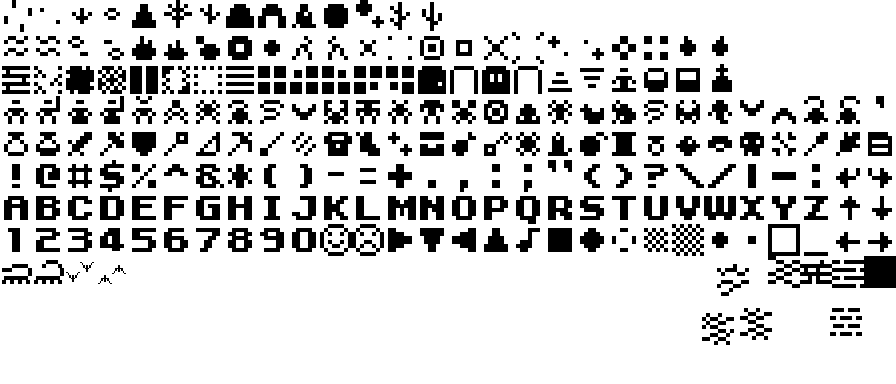
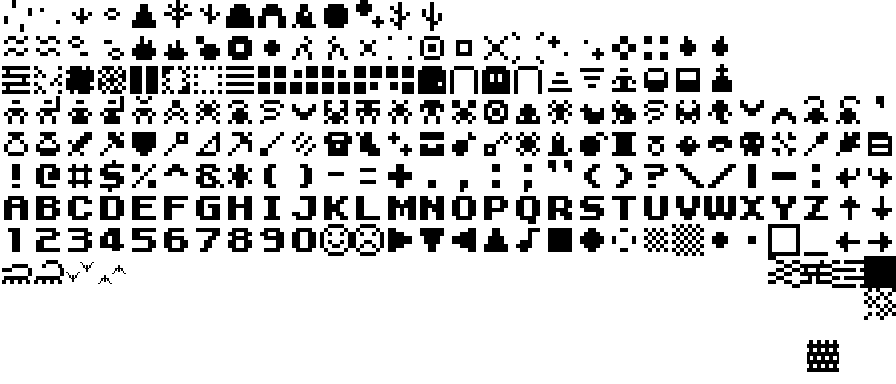
Add water animation, cave gen tweaks

Changed region(s): [[0.875, 0.75, 1.0, 0.9688], [0.7812, 0.8125, 0.875, 0.9062], [0.7812, 0.6875, 0.8438, 0.75]]

diff --git a/src/Generate/cave.ts b/src/Generate/cave.ts
@@ -11,8 +11,10 @@ import { hop } from './modules/walk'
 import { Overseer2 } from './Overseer2'
 
 export function cave(
-  width = floor(CONFIG.mainDisplayWidth * 1.5),
-  height = floor(CONFIG.mainDisplayHeight * 1.5)
+  // width = floor(CONFIG.mainDisplayWidth * 1.5),
+  // height = floor(CONFIG.mainDisplayHeight * 1.5)
+  width = CONFIG.mainDisplayWidth,
+  height = CONFIG.mainDisplayHeight
 ) {
   const region = new Region(width, height, window.game.pool)
   const O2 = new Overseer2(region)
@@ -27,22 +29,25 @@ export function cave(
   // cellular automata cave generation
   const grid = cellularGrid(width, height, 5, O2.module())
 
-  const { being, feature, terrain, snap } = O2.module()
-
-  const seed1 = flood(region.rndWalkable(), 11, O2.module(), 'water')
-  const seed2 = flood(region.rndWalkable(), 9, O2.module(), 'water')
-  const seed3 = flood(region.rndWalkable(), 9, O2.module(), 'water')
-  const seed4 = flood(region.rndWalkable(), 11, O2.module(), 'water')
-
-  lake(new Set([...seed1, ...seed2, ...seed3, ...seed4]), O2.module(), 'water')
-
   rect.traverse(pt => {
     if (region.terrainAt(pt).blocksMovement) {
       if (region.terrainAt(pt.add(0, 1)).blocksMovement) O2.terrain(pt, 'solid')
       else O2.terrain(pt, 'brick')
     }
   })
-  O2.snapshot('Style!')
+  O2.snapshot('Decorate')
+
+  const { being, feature, terrain, snap } = O2.module()
+
+  // const seed1 = flood(region.rndWalkable(), 11, O2.module(), 'water')
+  // const seed2 = flood(region.rndWalkable(), 9, O2.module(), 'water')
+  // const seed3 = flood(region.rndWalkable(), 9, O2.module(), 'water')
+  // const seed4 = flood(region.rndWalkable(), 11, O2.module(), 'water')
+  // lake(new Set([...seed1, ...seed2, ...seed3, ...seed4]), O2.module(), 'water')
+
+  const seed1 = flood(region.rndWalkable(), 12, O2.module(), 'water')
+  const seed2 = flood(region.rndWalkable(), 12, O2.module(), 'water')
+  lake(new Set([...seed1, ...seed2]), O2.module(), 'water')
 
   // O2.terrain(rect.center(), 'cactus')
   const snapC = snap('Friendly critters')
@@ -68,8 +73,8 @@ export function cave(
   //   })
   // })
 
-  const webArea = flood(region.rndWalkable(), 12, O2.module(), 'web', 'water')
-  const webArea2 = flood(region.rndWalkable(), 12, O2.module(), 'web', 'water')
+  const webArea = flood(region.rndWalkable(), 12, O2.module(), 'web', ['water'])
+  const webArea2 = flood(region.rndWalkable(), 12, O2.module(), 'web', ['water'])
   lake(new Set([...webArea, ...webArea2]), O2.module(), 'web')
 
   const pWebArea = shuffle([...webArea])
@@ -85,14 +90,24 @@ export function cave(
     if (pt) O2.being(pt, 'spider')
   })
   snapC()
-  // rndCluster(4, O2.module()).forEach(pt => O2.terrain(pt, 'web'))
 
-  // hop(2, 4, 3, region.rndWalkable.bind(region), being('spider'))
-  // snapC()
-  // hop(2, 4, 3, region.rndWalkable.bind(region), being('warboy'))
-  // snapC()
-  // hop(2, 4, 3, region.rndWalkable.bind(region), being('scorpion'))
-  // snapC()
+  const scorpF = flood(region.rndWalkable(), 12, O2.module(), 'sand', ['water', 'web'])
+  lake(scorpF, O2.module(), 'sand')
+  const sandArea = shuffle([...scorpF])
+  loop(9, () => {
+    const pt = sandArea.pop()
+    if (pt) O2.feature(pt, 'cactus')
+  })
+  loop(7, () => {
+    const pt = sandArea.pop()
+    if (pt) O2.being(pt, 'scorpion')
+  })
+  loop(1, () => {
+    const pt = sandArea.pop()
+    if (pt) O2.feature(pt, 'flames')
+  })
+  snapC()
+
   // hop(2, 4, 3, region.rndWalkable.bind(region), being('bigMozzie'))
   // hop(4, 5, 4, region.rndWalkable.bind(region), being('mozzie'))
   // snapC()

diff --git a/src/System/processFormUpdate.ts b/src/System/processFormUpdate.ts
@@ -1,3 +1,4 @@
+import { Entity, EntityWith } from '../Core'
 import { Engine } from '../Core/Engine'
 // import { logger } from '../lib/logger'
 
@@ -5,7 +6,7 @@ export function processFormUpdate(engine: Engine) {
   // const log = logger()
   const { local, options } = engine
   if (!options.formUpdate) return
-
+  let changed = false
   // iterate through each entity with triggers, if a matching tag is found, update the entity's
   // form to the relevant set
   const setTriggers = local.get('formSet', 'formSetTriggers')
@@ -23,6 +24,7 @@ export function processFormUpdate(engine: Engine) {
 
         local.entity(entity).modify('form', ...newForm)
       }
+      changed = true
     })
   }
 
@@ -44,6 +46,28 @@ export function processFormUpdate(engine: Engine) {
         .entity(entity)
         .modify('form', ...newForm)
         .modify('formSetAutoCycle', cycle.frequency, i, Date.now())
+      changed = true
     }
   }
+
+  // quick hack to animate water
+  const water = local.pool.symbolic('water') as EntityWith<Entity, 'formSet' | 'formSetAutoCycle'>
+  const { form, formSet, formSetAutoCycle: cycle } = water
+  if (Date.now() - cycle.lastUpdate > cycle.frequency) {
+    const nextI = cycle.current + 3
+    const i = nextI >= formSet.length ? 0 : nextI
+
+    const newForm = [
+      formSet[i] === '' ? form.char : formSet[i],
+      formSet[i + 1] === '' ? form.color : formSet[i + 1],
+      formSet[i + 2] === '' ? form.bgColor : formSet[i + 2],
+    ] as [string, string, string]
+
+    water.form.char = formSet[i]
+    water.formSetAutoCycle.current = i
+    water.formSetAutoCycle.lastUpdate = Date.now()
+    changed = true
+  }
+
+  if (changed) local.hasChanged = true
 }

diff --git a/src/Templates/terrain.ts b/src/Templates/terrain.ts
@@ -21,6 +21,7 @@ export type TerrainKey =
   | 'unknown'
   | 'caveWall'
   | 'web'
+  | 'sand'
 
 export const terrain: EntityTemplate[] = [
   {
@@ -39,8 +40,10 @@ export const terrain: EntityTemplate[] = [
   {
     label: 'water',
     name: ['water'],
-    form: ['water', '#40a3e5'], //  bg '#070f31'
+    form: ['water1', '#40a3e5', '#020927'], //  bg '#070f31'
     tag: ['terrain'],
+    formSet: [['water1', '', '', 'water2', '', '']],
+    formSetAutoCycle: [1000],
     // trodOn: ['You tread water.'],
   },
   {
@@ -67,7 +70,7 @@ export const terrain: EntityTemplate[] = [
   { label: 'deadGrass', name: ['dead grass'], form: ['deadGrass', '#664f47'], tag: ['terrain'] },
   { label: 'mound', name: ['mound'], form: ['mound', '#4d372a'], tag: ['blocksLight', 'terrain'] },
   { label: 'peak', name: ['peak'], form: ['peak', '#004027'], tag: ['blocksLight', 'terrain'] },
-  { label: 'deadGrassD', name: ['dead grass'], form: ['deadGrass', '#553930'], tag: ['terrain'] },
+  { label: 'sand', name: ['sand'], form: ['sand', '#7b600a'], tag: ['terrain'] }, // b99009
   {
     label: 'brick',
     name: ['bricks'],
@@ -84,6 +87,12 @@ export const terrain: EntityTemplate[] = [
     label: 'web',
     name: ['web'],
     form: ['web', '#EEE'],
+    tag: ['terrain'],
+  },
+  {
+    label: 'nest',
+    name: ['nest'],
+    form: ['nest', '#732b55'],
     tag: ['terrain'],
   },
   {
@@ -109,9 +118,8 @@ export const terrain: EntityTemplate[] = [
     name: ['endless void'],
     form: ['v', '#FF00FF'],
     tag: ['blocksLight', 'blocksMovement', 'terrain'],
-  }, //warfestus
+  },
 ]
-
 /*
   moved to dynamic palette
 

diff --git a/src/lib/tilemap.ts b/src/lib/tilemap.ts
@@ -70,9 +70,11 @@ export const tileMapOryxMain = {
   mound: mapChar(7, 0, t),
   mozzie1: mapChar(2, 8, t),
   mozzie2: mapChar(3, 8, t),
+  nest: mapChar(9, 0, t),
   path: mapChar(8, 2, t),
   peak: mapChar(4, 0, t),
   pip: mapChar(22, 7, t),
+  sand: mapChar(27, 9, t),
   scorpion1: mapChar(0, 8, t),
   scorpion2: mapChar(1, 8, t),
   shrub: mapChar(2, 0, t),
@@ -90,6 +92,7 @@ export const tileMapOryxMain = {
   tree: mapChar(5, 0, t),
   void: mapChar(13, 0, t),
   wall: mapChar(0, 2, t),
-  water: mapChar(0, 1, t),
+  water1: mapChar(0, 1, t),
+  water2: mapChar(1, 1, t),
   web: mapChar(24, 8, t),
 } satisfies { [key: string]: [number, number] }

diff --git a/src/Generate/modules/flood.ts b/src/Generate/modules/flood.ts
@@ -48,7 +48,7 @@ export function flood(
   maxSize: number,
   O2: O2Module,
   key: EntityKey,
-  avoid?: string
+  avoid?: string[]
 ) {
   const region = O2.region
   const water = O2.terrain(key)
@@ -67,7 +67,7 @@ export function flood(
 
     checked.add(pt)
     const tHere = region.terrainAt(pt)
-    if (!tHere.blocksMovement && tHere.label !== avoid) {
+    if (!tHere.blocksMovement && !avoid?.includes(tHere.label)) {
       water(pt)
       success.add(pt)
 

diff --git a/src/Templates/features.ts b/src/Templates/features.ts
@@ -51,8 +51,8 @@ export const features: EntityTemplate[] = [
   {
     label: 'cactus',
     name: ['cactus'],
-    form: ['cactus', '#0f840f'],
-    tag: ['terrain'],
+    form: ['cactus', '#18d818'], //0f840f
+    tag: ['feature', 'memorable'],
     trodOn: ['You collect some cactus spines in your legs and arms.'],
   },
   {

diff --git a/src/Generate/modules/cellular.ts b/src/Generate/modules/cellular.ts
@@ -40,7 +40,7 @@ export function cellularGrid(width: number, height: number, times: number, O2: O
     })
 
     grid2.each((x, y, v) => (v ? wall(point(x, y)) : ground(point(x, y))))
-    // snap() //!
+    snap()
     grid1 = grid2
   })
   return grid2
